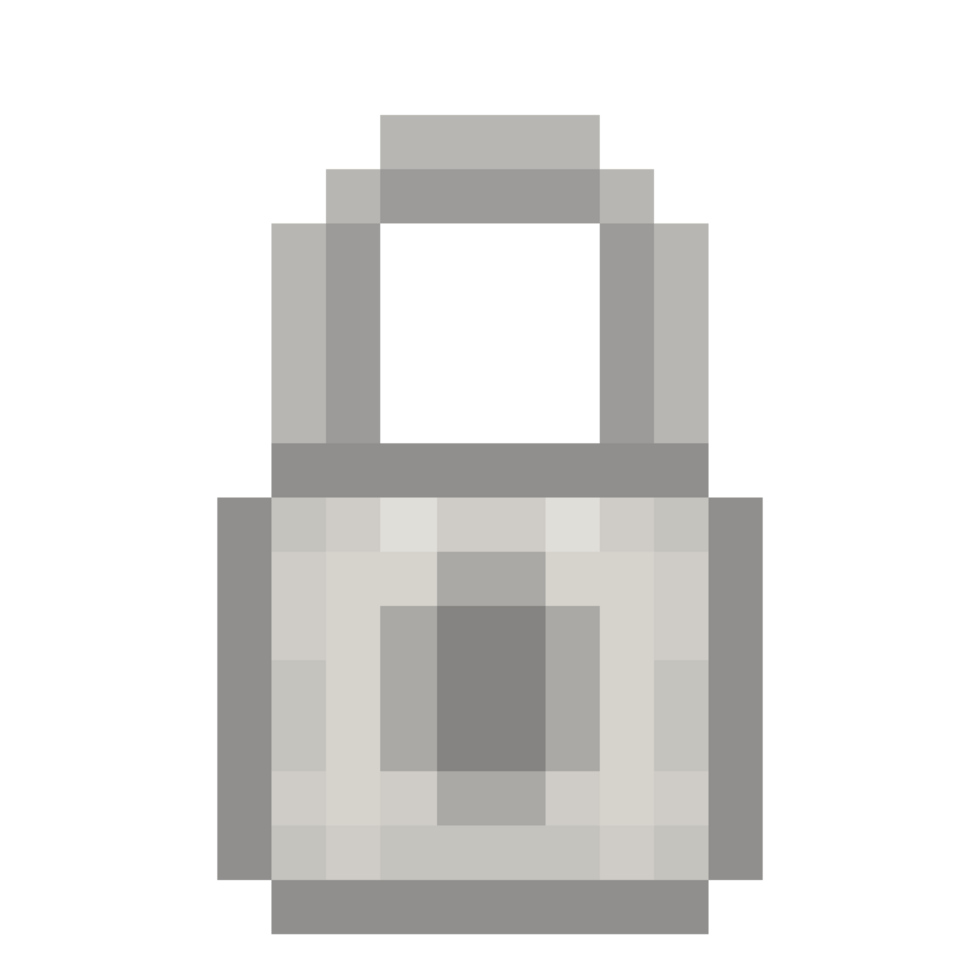
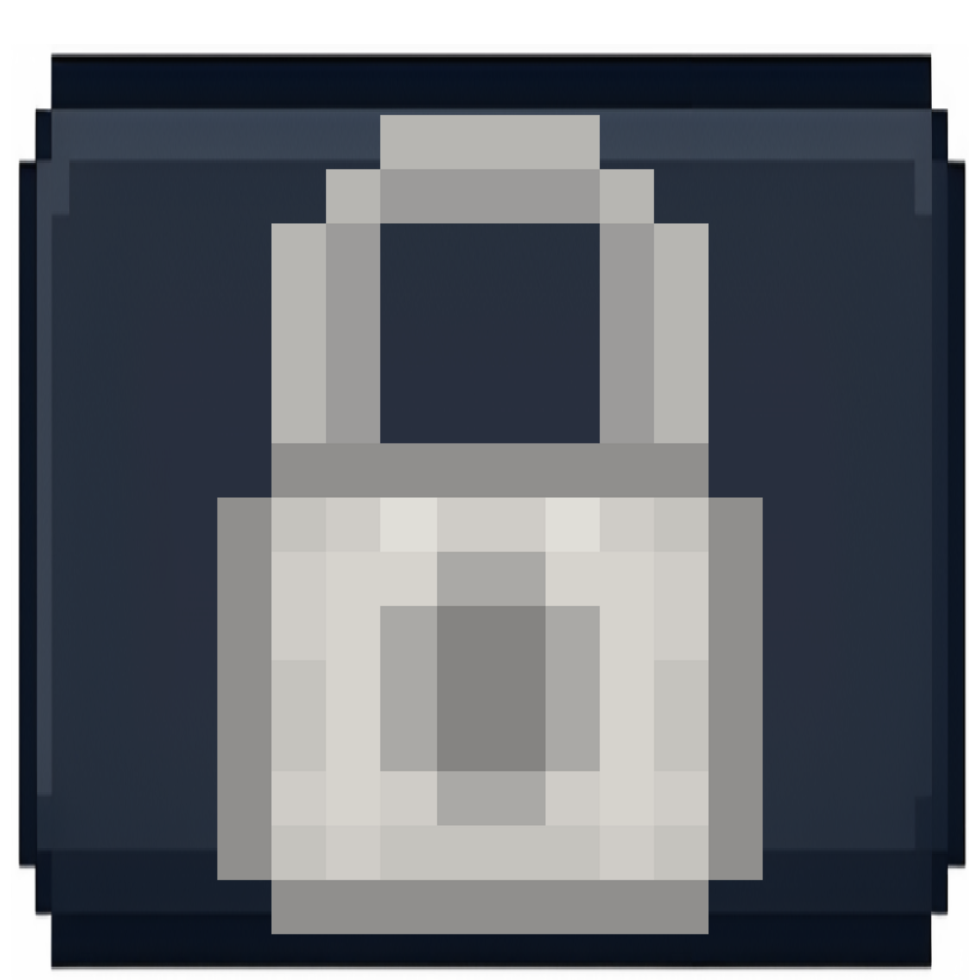
Added visuals for locked levels.

diff --git a/2IRR00_Group_Project/src/main/resources/com/mycompany/irr00_group_project/assets/css/levelSelectionStyle.css b/2IRR00_Group_Project/src/main/resources/com/mycompany/irr00_group_project/assets/css/levelSelectionStyle.css
@@ -65,6 +65,7 @@
 }
 
 .level-preview-button.locked {
+    -fx-background-image: url("../images/padlock.png");
     -fx-effect: innershadow( gaussian, rgba(255, 255, 255, 0.24), 50, 50, 50, 50 );
 }
 
